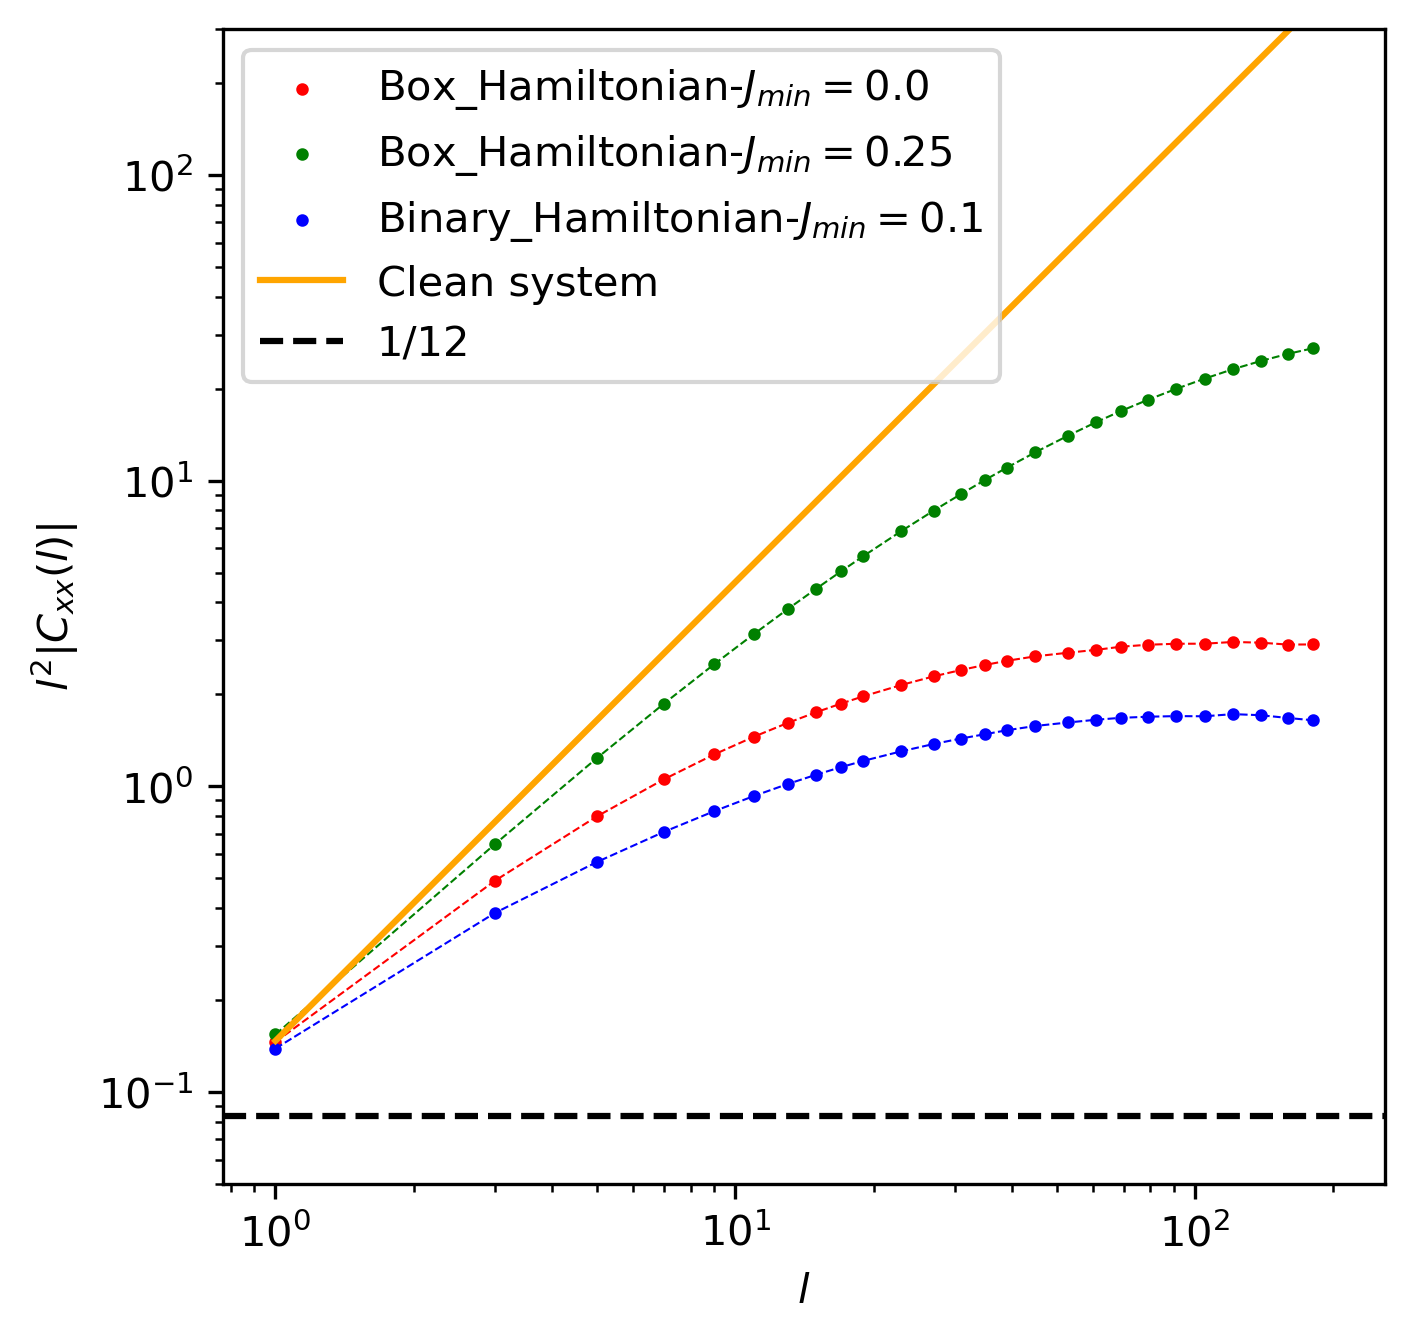
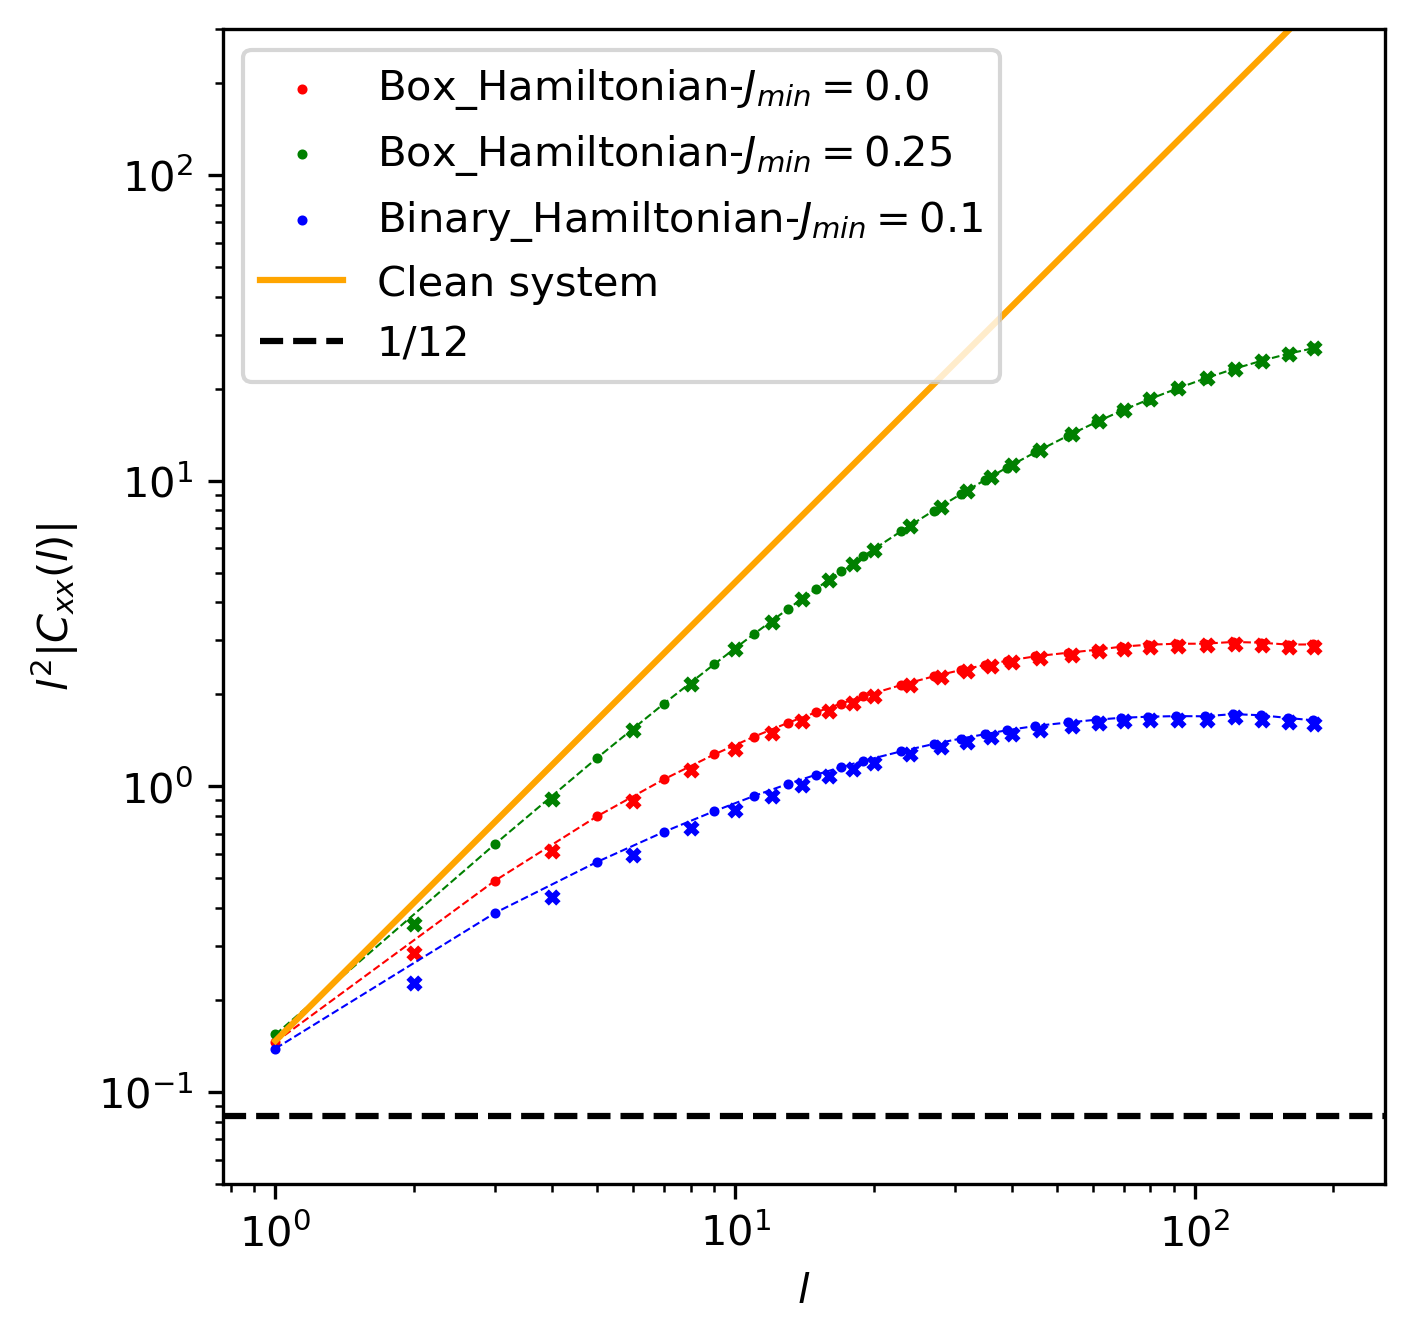
Oddloop

diff --git a/PlotAll.py b/PlotAll.py
@@ -7,14 +7,15 @@ from Functions import read_parameters, read_correlation
 
 """---------------MAIN-----------------"""
 
-SeriesX = [None,None,None]; SeriesZ = [None,None,None]; SeriesXpp = [None,None,None]
-ErrorX  = [None,None,None];  ErrorZ = [None,None,None];  ErrorXpp = [None,None,None]
+SeriesX = [None,None,None]; SeriesZ = [None,None,None]; SeriesXp = [None,None,None]
+ErrorX  = [None,None,None];  ErrorZ = [None,None,None];  ErrorXp = [None,None,None]
+SeriesXpp = [None,None,None]; ErrorXpp = [None,None,None]
 
 J_min = [None,None,None]  ; distribution = [None,None,None]; R = []
 
 for n in range(3):
     J_min[n], distribution[n] = read_parameters(sys.argv[n+1])
-    SeriesZ[n], ErrorZ[n], SeriesX[n], ErrorX[n], SeriesXpp[n], ErrorXpp[n], R = read_correlation(J_min[n], distribution[n])
+    SeriesZ[n], ErrorZ[n], SeriesX[n], ErrorX[n], SeriesXp[n], ErrorXp[n], SeriesXpp[n], ErrorXpp[n], R = read_correlation(J_min[n], distribution[n])
 
 # Plotting C_zz
 plt.figure(figsize=(5, 5))
@@ -49,11 +50,14 @@ plt.savefig("./Images/Errorzz.png", dpi=300, bbox_inches="tight")
 # Plotting C_xx
 x = np.arange(1, 201, 2); f = lambda x: 0.14709 * x**(3/2); y = f(x) #Clean system
 plt.figure(figsize=(5, 5))
-plt.scatter(R, SeriesX[0], label=distribution[0]+"-$J_{min}=$"+str(J_min[0]), color="red", s=4)
+plt.scatter(R, SeriesX[0], label=distribution[0]+"-$J_{min}=$"+str(J_min[0]), color="red", s=8, marker =".")
+plt.scatter(R+1,SeriesXp[0],  color="red", s=8, marker ="x")
 plt.plot(R,    SeriesX[0], linestyle='--', linewidth=0.5, color='red')
-plt.scatter(R, SeriesX[1], label=distribution[1]+"-$J_{min}=$"+str(J_min[1]), color="green", s=4)
+plt.scatter(R, SeriesX[1], label=distribution[1]+"-$J_{min}=$"+str(J_min[1]), color="green", s=8, marker =".")
+plt.scatter(R+1,SeriesXp[1], color="green",s=8, marker ="x")
 plt.plot(R,    SeriesX[1], linestyle='--', linewidth=0.5, color='green')
-plt.scatter(R, SeriesX[2], label=distribution[2]+"-$J_{min}=$"+str(J_min[2]), color="blue", s=4)
+plt.scatter(R, SeriesX[2], label=distribution[2]+"-$J_{min}=$"+str(J_min[2]), color="blue", s=8, marker =".")
+plt.scatter(R+1,SeriesXp[2], color="blue", s=8, marker ="x")
 plt.plot(R,    SeriesX[2], linestyle='--', linewidth=0.5, color='blue')
 plt.plot(x, y, label="Clean system", color="orange")
 plt.axhline(1/12, color="black", linestyle="--", label="1/12")
@@ -68,10 +72,13 @@ plt.savefig("./Images/Cxx.png", dpi=300, bbox_inches="tight")
 # Plotting DesvEsta C_xx
 plt.figure(figsize=(5, 1))
 plt.scatter(R, ErrorX[0], color="red", s=4)
+plt.scatter(R+1, ErrorXp[0], color="red", s=8, marker ="x")
 plt.plot(R,    ErrorX[0], linestyle='--', linewidth=0.5, color='red')
 plt.scatter(R, ErrorX[1], color="green", s=4)
+plt.scatter(R+1, ErrorXp[1], color="green", s=8, marker ="x")
 plt.plot(R,    ErrorX[1], linestyle='--', linewidth=0.5, color='green')
 plt.scatter(R, ErrorX[2], color="blue", s=4)
+plt.scatter(R+1, ErrorXp[2], color="blue", s=8, marker ="x")
 plt.plot(R,    ErrorX[2], linestyle='--', linewidth=0.5, color='blue')
 plt.xscale('log')
 plt.yscale('log')

diff --git a/Functions.py b/Functions.py
@@ -28,7 +28,7 @@ def read_correlation(J_min, distribution):
     C_xxpp = df['C_xxpp'].to_numpy()
     Var_C_xxpp = df['Var_C_xxpp'].to_numpy()
     return [-R**2 * C_zz,R**2 * np.sqrt(Var_C_zz),R**2 * np.abs(C_xx),
-            R**2 * np.sqrt(Var_C_xx),np.abs(C_xx + C_xxpp), np.sqrt(Var_C_xxpp)+np.sqrt(Var_C_xx), R]
+            R**2 * np.sqrt(Var_C_xx), (R+1)**2 * np.abs(C_xxpp), (R+1)**2 * np.sqrt(Var_C_xxpp), np.abs(C_xx + C_xxpp), np.sqrt(Var_C_xxpp)+np.sqrt(Var_C_xx), R]
 
 def read_pair(J_min, distribution):
     data_path = "Pair-"+distribution+"-"+str(J_min)+".csv"
